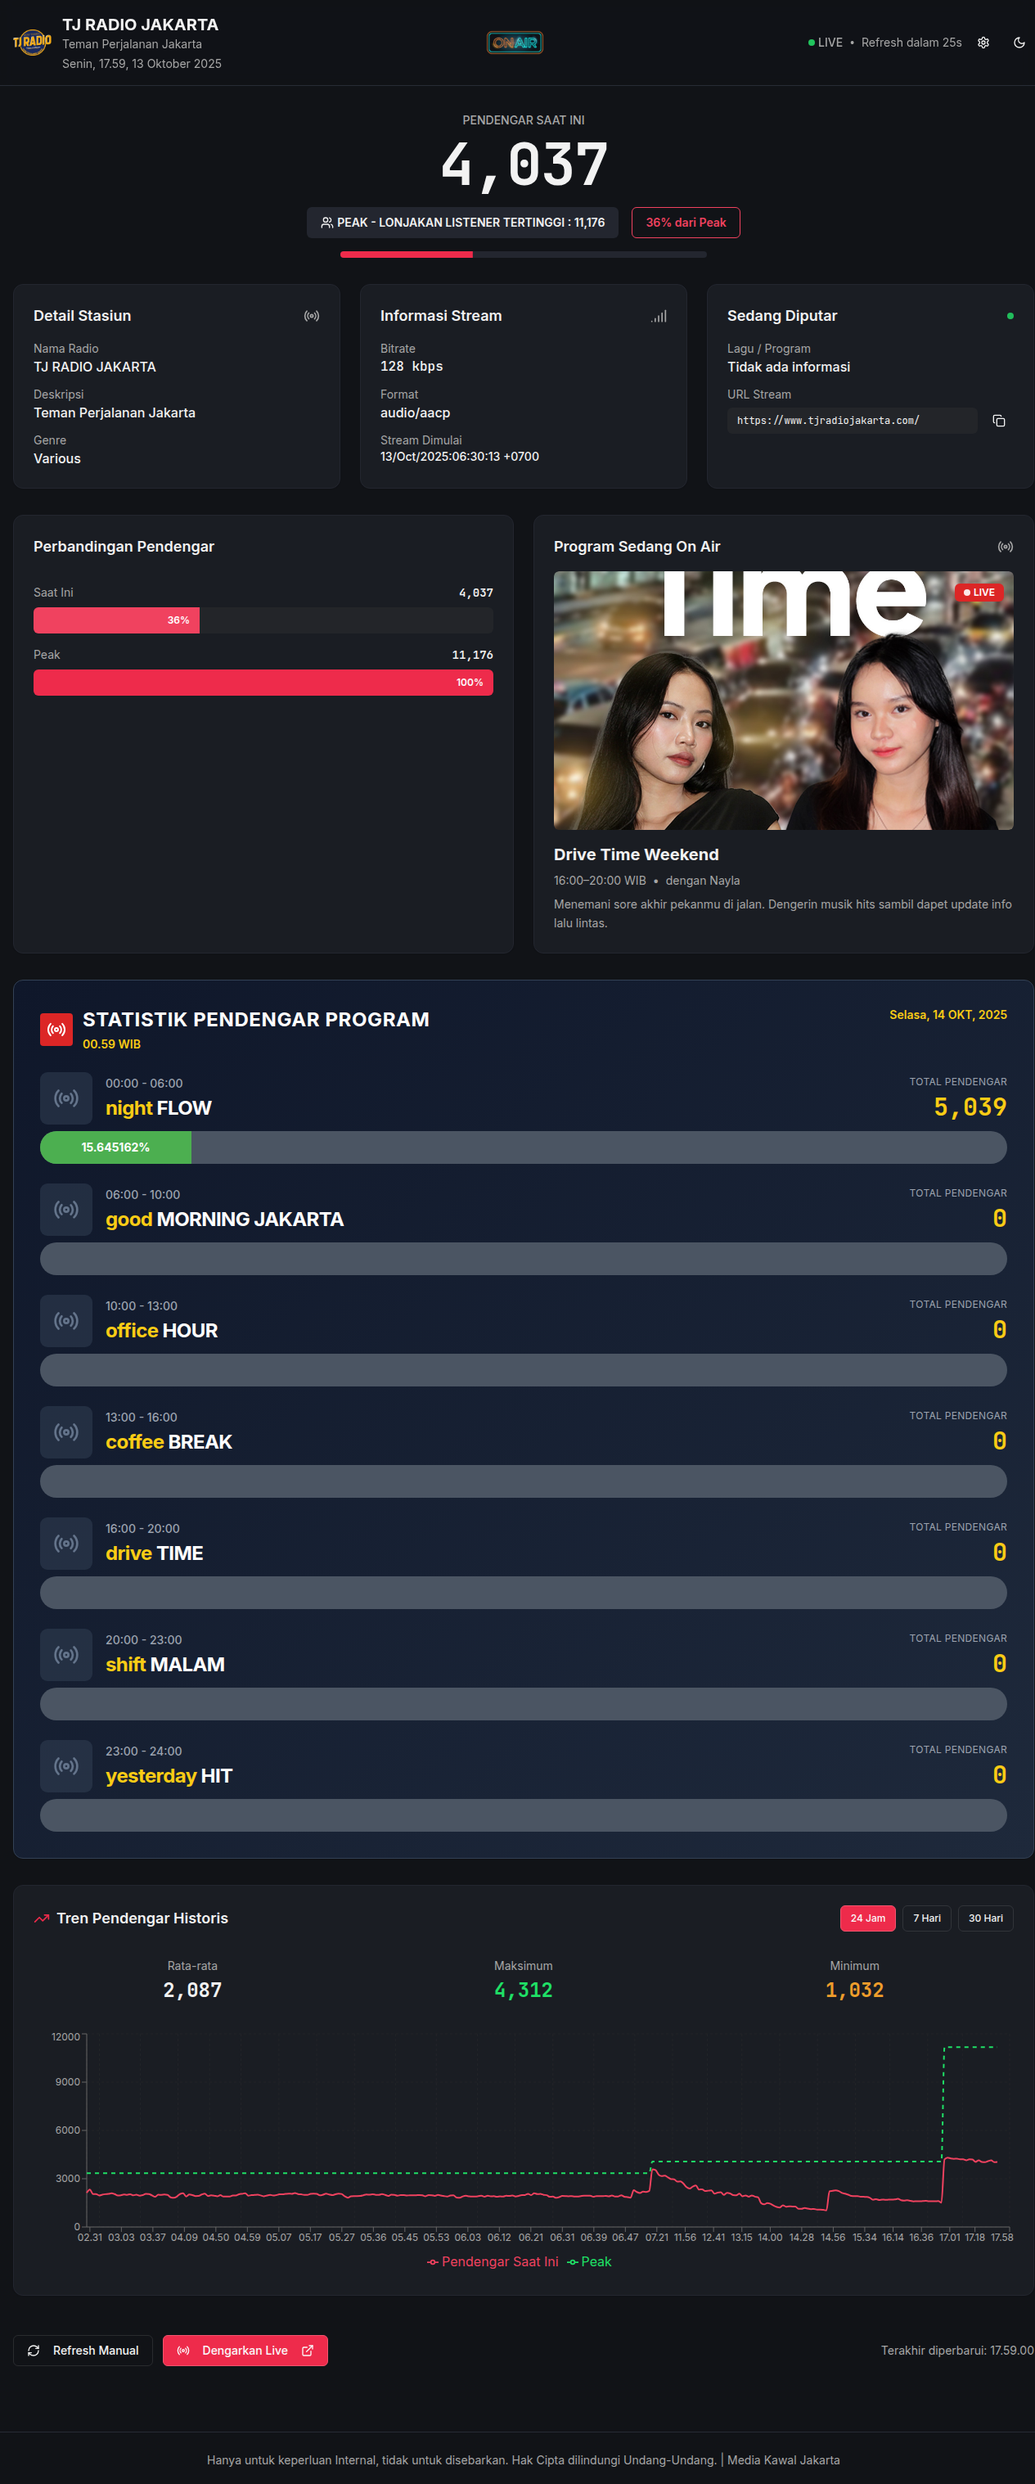
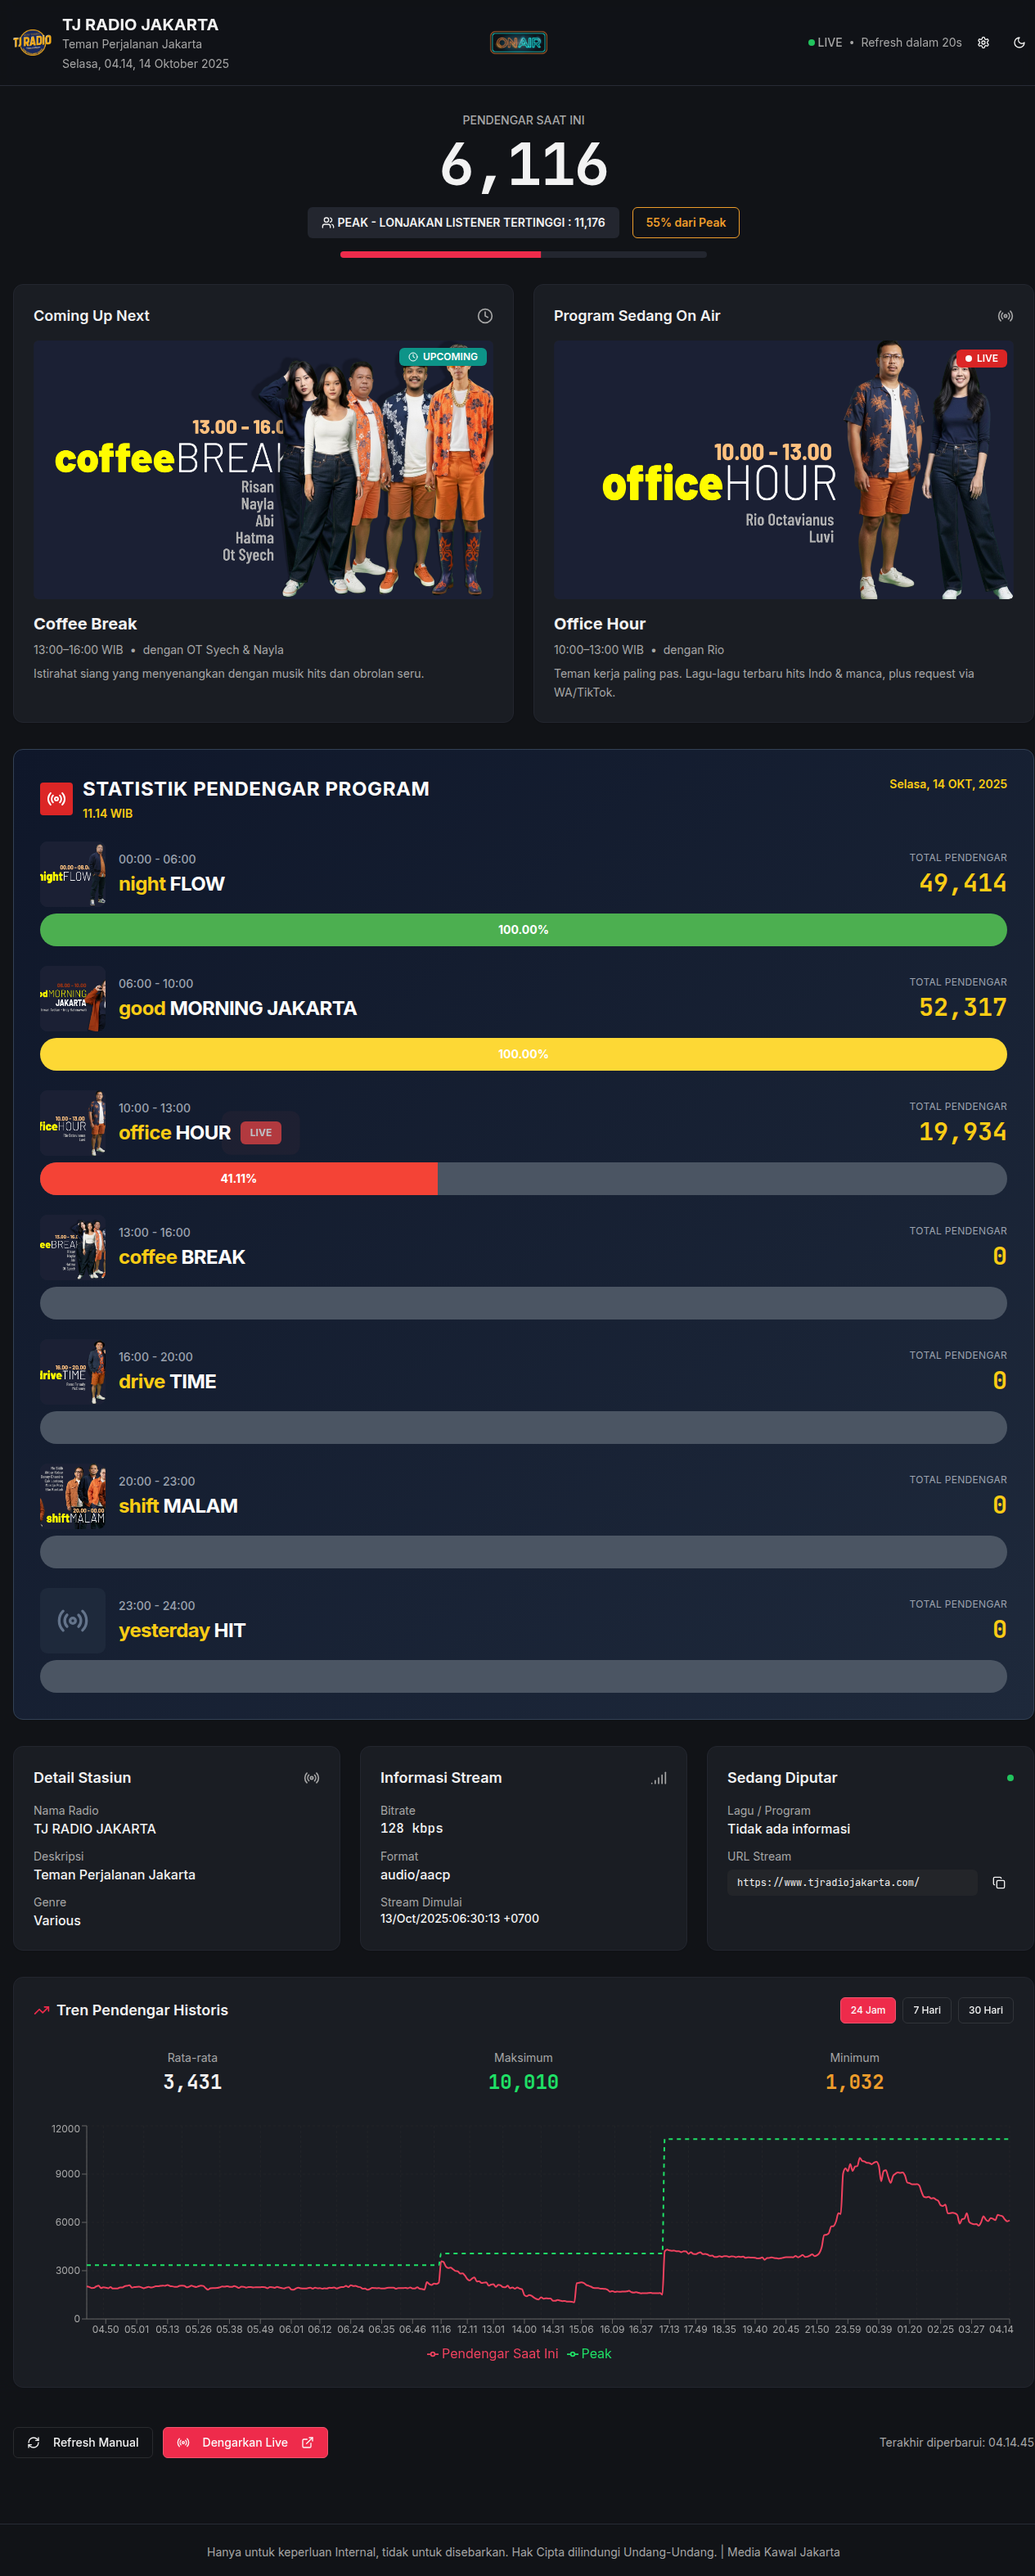
Adjust "upcoming" and "LIVE" badges to prevent image overlap
Adjust the positioning of the "upcoming" and "LIVE" status badges in `coming-up-next.tsx` and `on-air-program.tsx` by changing the absolute positioning from `top-3` to `top-1` to prevent them from overlapping with the program images.

Replit-Commit-Author: Agent
Replit-Commit-Session-Id: b8cbff25-a858-469f-b924-89520de21d2c
Replit-Commit-Checkpoint-Type: full_checkpoint
Replit-Commit-Screenshot-Url: https://storage.googleapis.com/screenshot-production-us-central1/4554a71a-bec5-4a58-9b7f-11e7cd305465/b8cbff25-a858-469f-b924-89520de21d2c/dXU0TDN

diff --git a/client/src/components/on-air-program.tsx b/client/src/components/on-air-program.tsx
@@ -77,7 +77,7 @@ export function OnAirProgram() {
               className="object-cover w-full h-full rounded-md"
               data-testid="img-on-air-program"
             />
-            <div className="absolute top-3 right-3">
+            <div className="absolute top-1 right-1">
               <Badge variant="destructive" className="bg-red-600 text-white animate-pulse" data-testid="badge-live-status">
                 <div className="absolute -inset-1 bg-red-600 rounded-full animate-ping opacity-75" />
                 <div className="relative flex items-center">

diff --git a/client/src/components/coming-up-next.tsx b/client/src/components/coming-up-next.tsx
@@ -77,7 +77,7 @@ export function ComingUpNext() {
               className="object-cover w-full h-full rounded-md"
               data-testid="img-coming-up-next"
             />
-            <div className="absolute top-3 right-3">
+            <div className="absolute top-1 right-1">
               <Badge variant="secondary" className="bg-teal-600 text-white" data-testid="badge-upcoming-status">
                 <Clock className="h-3 w-3 mr-1.5" />
                 <span className="font-semibold">{program.status}</span>
